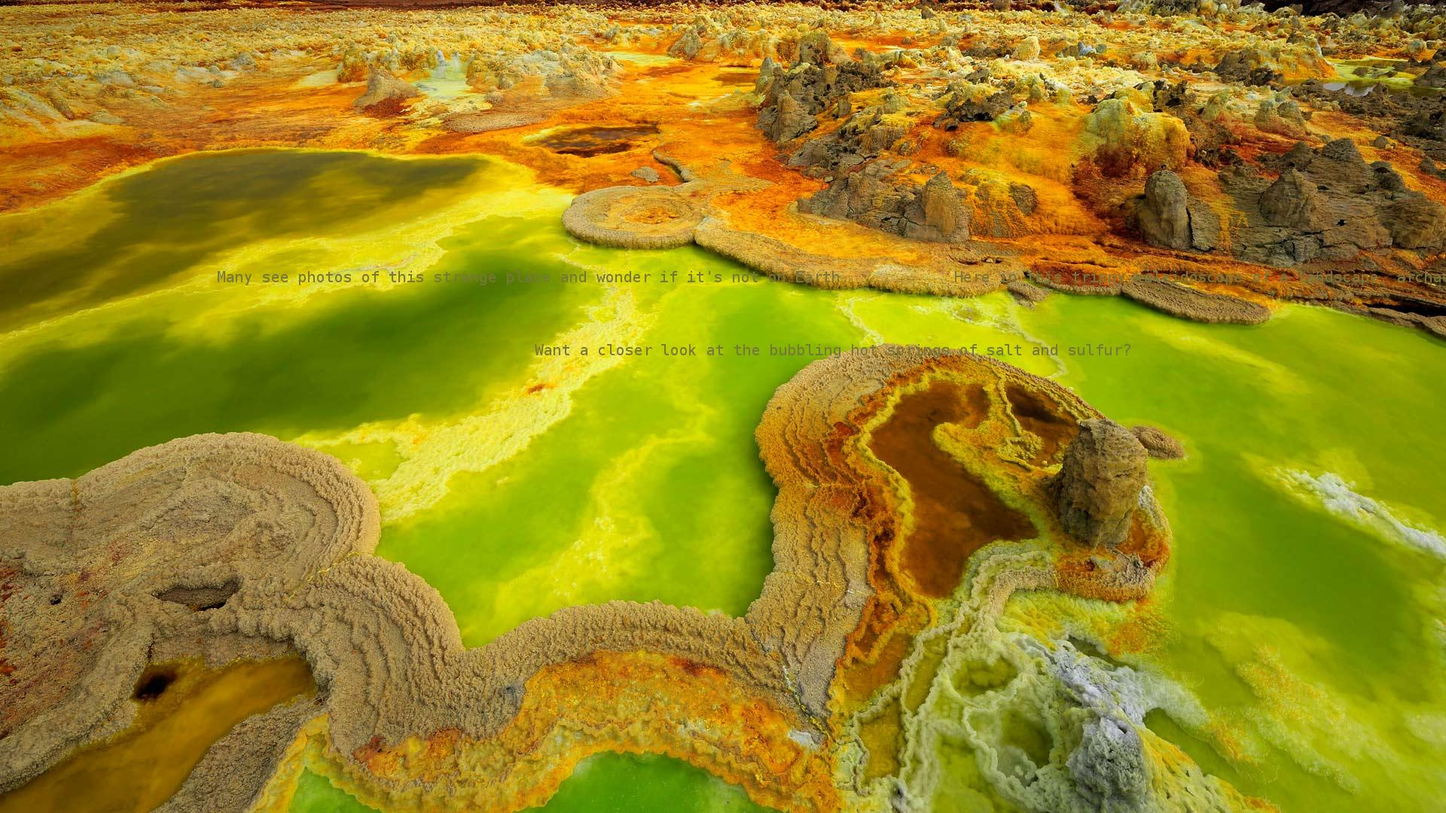
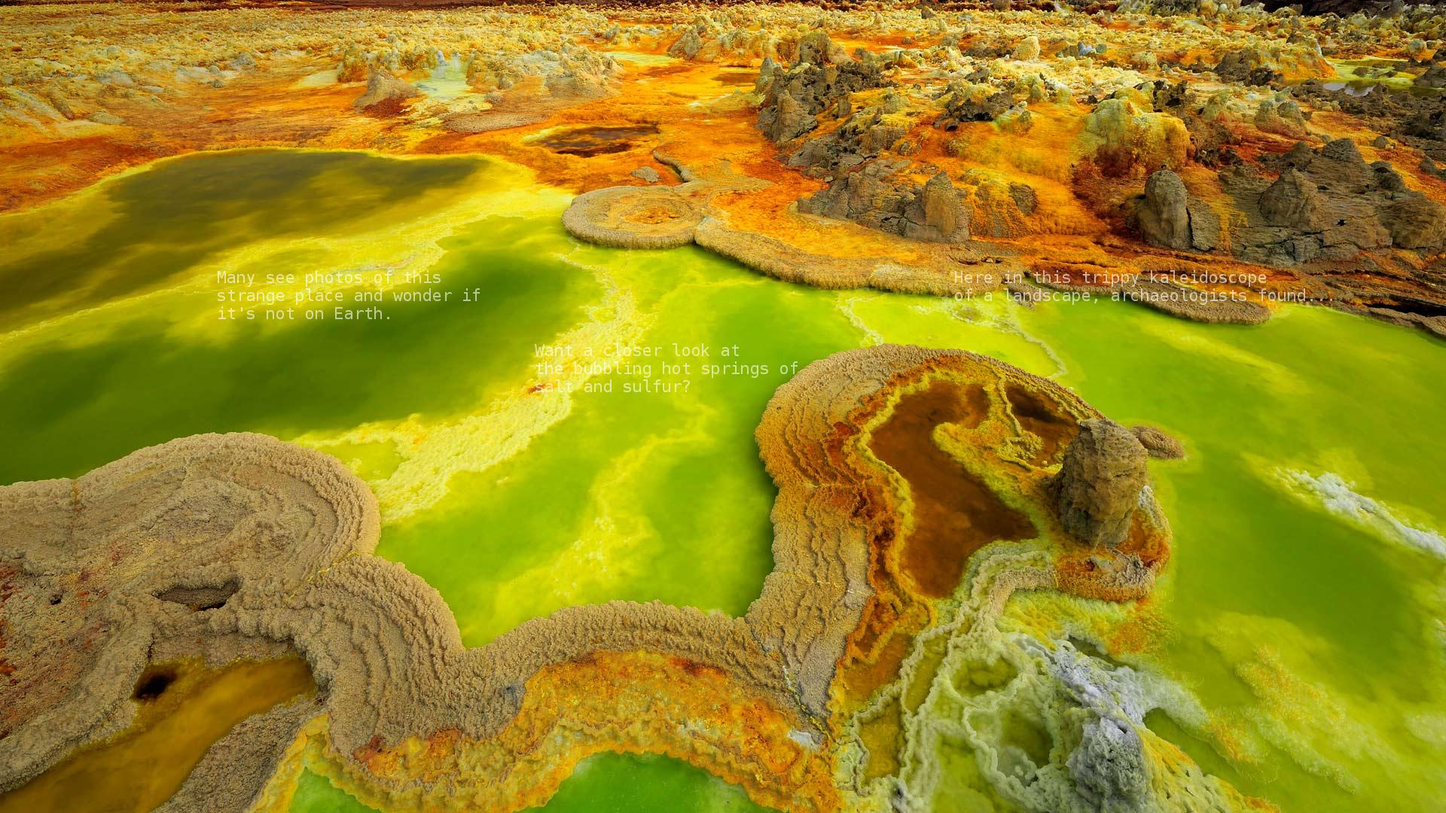
fully functioned version. refactor some hard code, more elegant

diff --git a/SetWallpaper.py b/SetWallpaper.py
@@ -1,5 +1,5 @@
 # -*- coding: utf-8 -*-
-import urllib.request, json
+import urllib.request, json,os
 from PIL import Image, ImageFont, ImageDraw
 from subprocess import call
 
@@ -11,33 +11,48 @@ def getBing():
         get_json_format_response = urllib.request.urlopen(url).read().decode('utf-8')
     except Exception as e:
         print(e)
-    else:
-        total_image_content = json.loads(get_json_format_response)['images'][0]
-        image_info = {'startdate': total_image_content['startdate'],
-                      'enddate': total_image_content['enddate'],
-                      'url': 'http://global.bing.com%s' % total_image_content['url'],
-                      'copyright': total_image_content['copyright'],
-                      }
-        # for each desc it has 'desc', 'link', 'query', 'locx', 'locy' attributes.
-        desc_info = [i for i in total_image_content['hs']]
-        PhotoEnhance(desc_info)
-        '''try:
-            urllib.request.urlretrieve(image_info['url'],'bing.jpg')
-            call(['gsettings', 'set', 'org.gnome.desktop.background', 'picture-uri', image_info['url']])
-        except Exception as e:
-            print(e)
-        '''
+        return
+    total_image_content = json.loads(get_json_format_response)['images'][0]
+    image_info = {'startdate': total_image_content['startdate'],
+                  'enddate': total_image_content['enddate'],
+                  'url': 'http://global.bing.com%s' % total_image_content['url'],
+                  'copyright': total_image_content['copyright'],
+                  }
+    # for each desc it has 'desc', 'link', 'query', 'locx', 'locy' attributes.
+    desc_info = [i for i in total_image_content['hs']]
+    sentence2words(desc_info)
+    try:
+        urllib.request.urlretrieve(image_info['url'], 'bing.jpg')
+        photo_enhance(desc_info)
+        call(['gsettings', 'set', 'org.gnome.desktop.background', 'picture-uri', 'file://%s/bing-out.jpg'%os.getcwd()])
+    except Exception as e:
+        print(e)
 
 
-def PhotoEnhance(desc_info):
-    img = Image.open('bing.jpg')
-    draw = ImageDraw.Draw(img)
-    font = ImageFont.truetype("DejaVuSansMono.ttf", 20,encoding='utf-8')
-
+def sentence2words(desc_info):
     for desc in desc_info:
-        draw.text((int(19.20 * desc['locx']), int(10.80 * desc['locy'])), '%s' % str(desc['desc']), (119, 119, 60),
+        words = desc['desc'].split()
+        result = ''
+        i = 0
+        for word in words:
+            result = result + word + ' '
+            i += 1
+            if i == 5:
+                result += '\n'
+                i = 0
+        desc['desc'] = result
+
+
+def photo_enhance(desc_info):
+    img = Image.open('bing.jpg').convert('RGBA')
+    txt = Image.new('RGBA', img.size, (255, 255, 255, 0))
+    draw = ImageDraw.Draw(txt)
+    font = ImageFont.truetype("DejaVuSansMono.ttf", 22, encoding='utf-8')
+    for desc in desc_info:
+        draw.text((int(19.20 * desc['locx']), int(10.80 * desc['locy'])), desc['desc'], fill=(255, 255, 255, 150),
                   font=font)
-    img.save('bing-out.jpg')
+    result = Image.alpha_composite(img, txt)
+    result.save('bing-out.jpg')
 
 
 if __name__ == '__main__':
